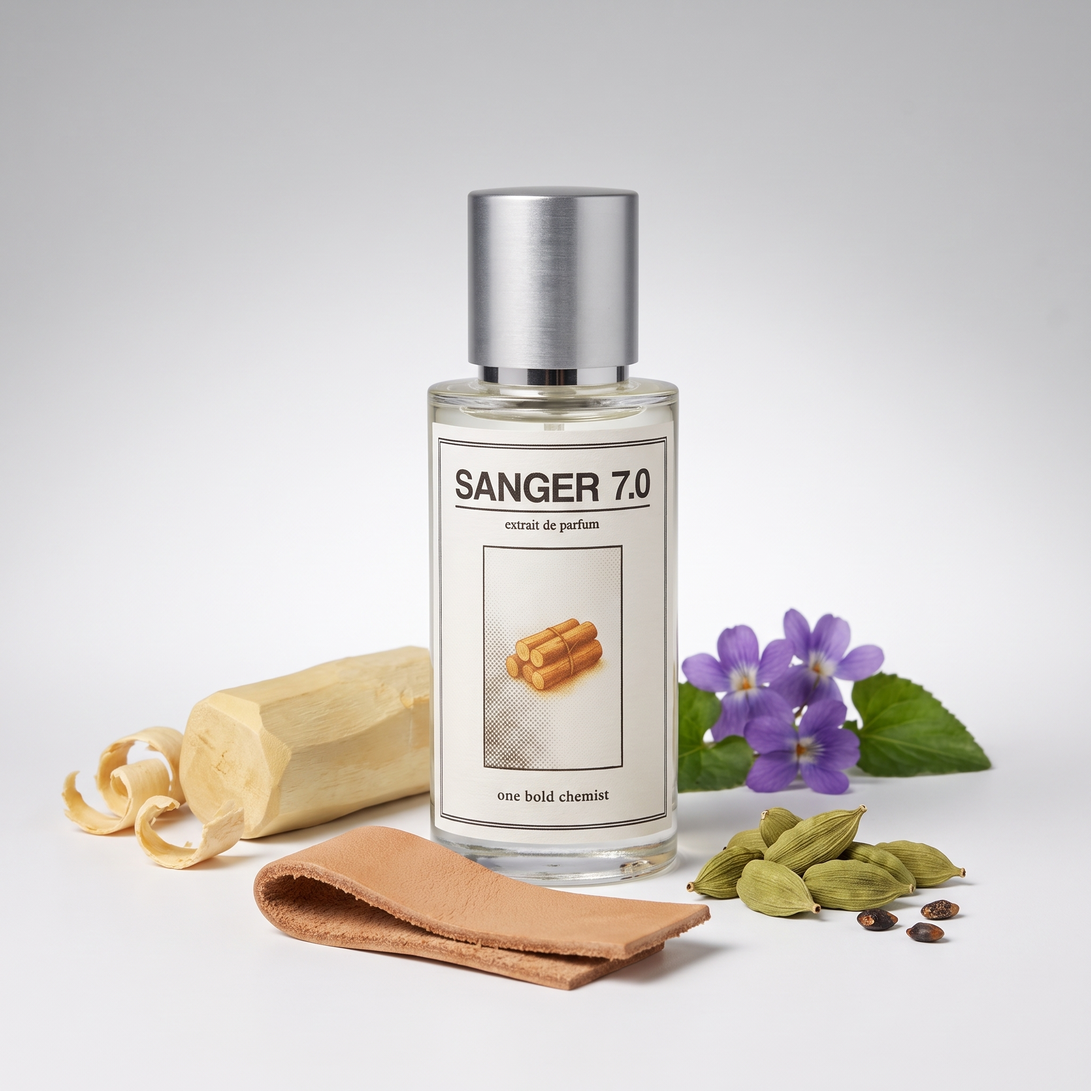
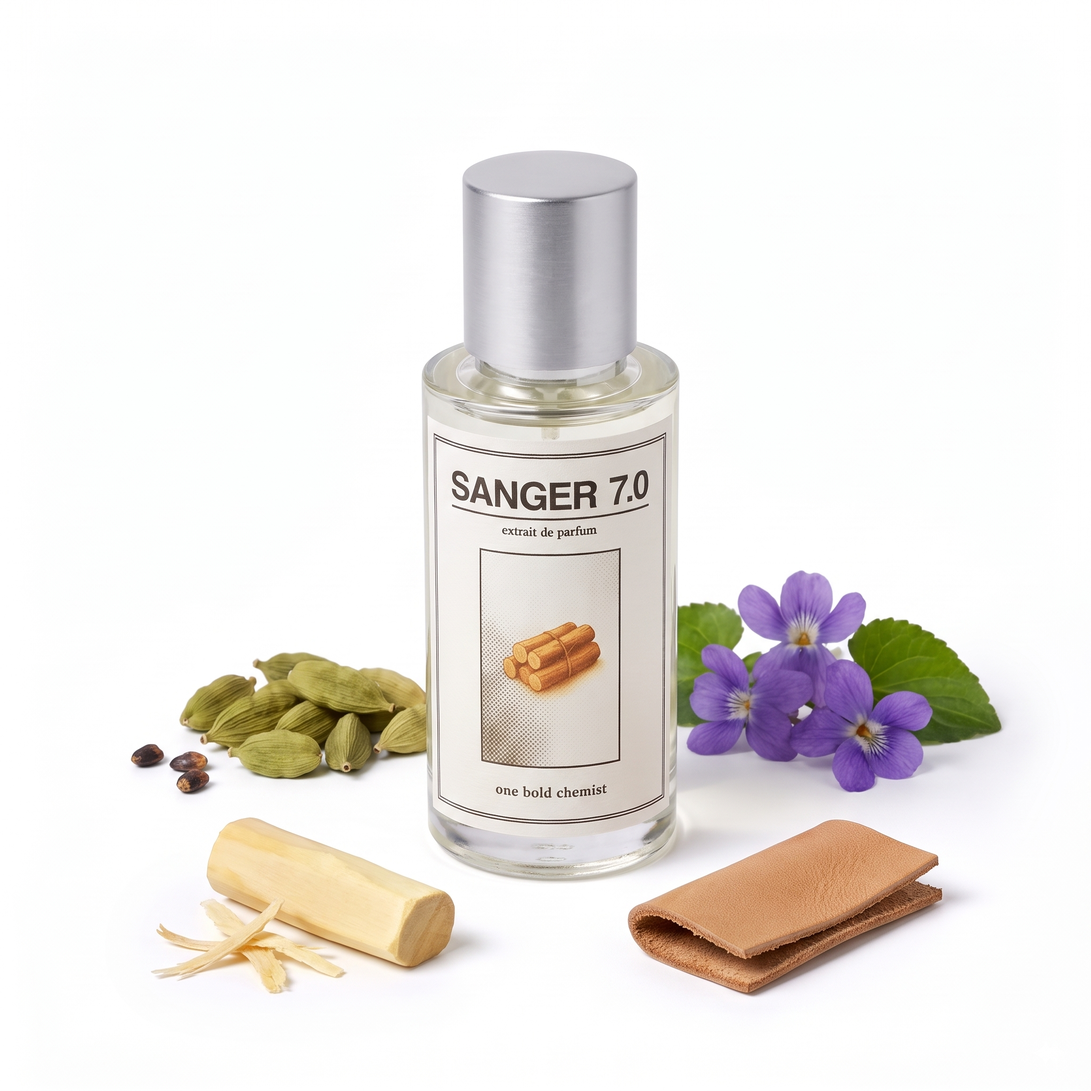
Regenerate notes images 1.0-10.0: identical elevated camera, pure white background, small ingredients inside frame
Prompt now fixes the camera about 20 degrees above the bottle for the whole
series, requires a pure white background (the earlier grey falloff was a
prompt artefact), caps ingredient size, keeps the space behind the bottle
empty and makes the label explicitly opaque. Avogadro 6.0 is the style
reference for the other nine.

Claude-Session: https://claude.ai/code/session_016v8pxCBCRgnJrBoVHWv8hg

diff --git a/notes-images/scripts/generate.py b/notes-images/scripts/generate.py
@@ -42,19 +42,19 @@ OPENAI_API = "https://api.openai.com/v1"
 
 PROMPT_TEMPLATE = """Edit this image. Image 1 is a product photo of a 50 ml perfume bottle from One Bold Chemist.{style_ref}
 
-BOTTLE: keep the bottle exactly as in image 1: the same glass bottle, brushed silver cap and liquid colour, and the same label with the exact text "{label}", "extrait de parfum" and "one bold chemist" plus the same small halftone illustration. Do not redraw, rotate, tilt or alter the label in any way.
+BOTTLE: keep the bottle exactly as in image 1: the same glass bottle, brushed silver cap and liquid colour, and the same label with the exact text "{label}", "extrait de parfum" and "one bold chemist" plus the same small halftone illustration. Do not redraw, rotate, tilt or alter the label in any way. The label is opaque printed paper wrapped around the glass: it is never transparent, and nothing beside or behind the bottle ever shows through it.
 
-CAMERA: the same camera as image 1: a straight-on front view with the camera slightly above the label so the top of the cap and the table surface are just visible, the label facing the camera squarely, no rotation of the bottle, a normal 85 mm lens with no wide-angle distortion. The bottle stands centred and takes about 60% of the image height.
+CAMERA: a front view with the camera raised clearly above the bottle, looking down at about 20 degrees, so the full top of the cap is visible as an ellipse and the white surface stretches out in front of and around the bottle. The label faces the camera squarely, the bottle is not rotated, normal 85 mm lens with no wide-angle distortion. This exact camera height and angle is identical for every image in the series. The bottle stands centred and takes about 55% of the image height.
 
-SCENE: one single real studio photograph, shot on a medium-format camera at f/11. The bottle and all ingredients stand together on the same white seamless paper sweep with a subtle grey falloff at the top, lit by one large, soft light from the upper left and gently filled from the right, so every object shares the same soft directional light, has a soft contact shadow under it falling to the lower right, and a faint reflection on the paper. The ingredients closest to the bottle are faintly reflected and refracted in its glass, and the bottle casts its own soft shadow across the ingredients on its right. Same colour temperature, same sharpness and fine grain across the whole frame, slight natural depth of field towards the back. Nothing may look cut out, pasted in or floating; every object sits firmly on the surface. Nothing but the white sweep and the objects standing on it is visible anywhere in the frame; the picture has no visible edges, panels, walls or equipment of any kind.
+SCENE: one single real studio photograph, shot on a medium-format camera at f/11. The bottle and all ingredients stand together on the same pure white seamless surface that continues into a pure white background. The background is evenly lit, clean white everywhere, with no gradient, vignette, grey falloff or darkening at the top; the only tones on the white are the objects' soft shadows and reflections. Lit by one large, soft light from the upper left and gently filled from the right, so every object shares the same soft directional light, has a soft contact shadow under it falling to the lower right, and a faint reflection on the paper. The ingredients closest to the bottle are faintly reflected and refracted in its glass, and the bottle casts its own soft shadow across the ingredients on its right. Same colour temperature, same sharpness and fine grain across the whole frame, slight natural depth of field towards the back. Nothing may look cut out, pasted in or floating; every object sits firmly on the surface. Nothing but the white sweep and the objects standing on it is visible anywhere in the frame; the picture has no visible edges, panels, walls or equipment of any kind.
 
 INGREDIENTS: arrange the fragrance's raw ingredients around the base of the bottle in four separate small groups, in front of and beside the bottle only. The space directly behind the bottle stays completely empty, so nothing is seen through the glass and the label is read against plain background. Clear space between the groups, nothing piled up and nothing covering the label:
 {ingredients}
-Each ingredient is real, tactile and at true scale relative to a 50 ml bottle.
+Each ingredient is real, tactile and at true scale relative to a 50 ml bottle. Keep every group small and low: no group is taller than one third of the bottle's height, no single piece is longer than half the bottle's height, and there are only a few pieces per group.
 
-FRAMING: the whole arrangement, bottle and ingredients together, sits inside the central 80% of the frame; the outer 10% on every side is empty background. No object touches or crosses the picture edge: make an ingredient smaller or move it inward rather than letting it reach the edge. No text, captions, extra props or hands. Square 1:1, high-end product photography."""
+FRAMING: the whole arrangement, bottle and ingredients together, sits inside the central 75% of the frame; the outer 12% on every side is empty white background. No object touches or crosses the picture edge: make an ingredient smaller or move it inward rather than letting it reach the edge. No text, captions, extra props or hands. Square 1:1, high-end product photography."""
 
-STYLE_REF_SENTENCE = " Image 2 is a finished example of exactly the look wanted: match its camera angle, bottle size, lighting, shadow direction, ingredient scale and framing."
+STYLE_REF_SENTENCE = " Image 2 is a finished example from the same series: match its camera height and angle, bottle size, lighting and shadow direction exactly, so this image looks shot in the same session. Background must be pure white and every ingredient must stay well inside the frame, as described below."
 
 
 FLOW_TEMPLATE = """Product still life of the exact perfume bottle from the reference image: the same 50 ml glass bottle, brushed silver cap, liquid colour and label with the text "{label}", "extrait de parfum" and "one bold chemist" and the same small halftone illustration, reproduced exactly with no changes to the label. The bottle stands centred on a pure white surface, about 60% of the frame height, seen from a slightly elevated angle.

diff --git a/notes-images/README.md b/notes-images/README.md
@@ -35,7 +35,7 @@ Storlek: `--size 1K|2K|4K` (default 2K = 2048 px, samma som befintliga noter-bil
 
 GPT Image som alternativ: `python3 scripts/generate.py --provider openai --model gpt-image-2 --skus 2` (kräver `OPENAI_API_KEY`, max 1024 px).
 
-`--style-ref` skickar en färdig, godkänd bild som bild 2 till modellen så att vinkel, ljus och inramning hålls konsekvent. `reference/style-ref.jpg` är den bild som användes för 1.0–10.0.
+`--style-ref` skickar en färdig, godkänd bild som bild 2 till modellen så att vinkel, ljus och inramning hålls konsekvent. `reference/style-ref.jpg` (Avogadro 6.0) är den bild som användes för 1.0–10.0: kamera ca 20° ovanifrån, helt vit bakgrund, allt inom de centrala 75 % av bilden.
 
 ## Manuellt i Gemini-appen / AI Studio
 
